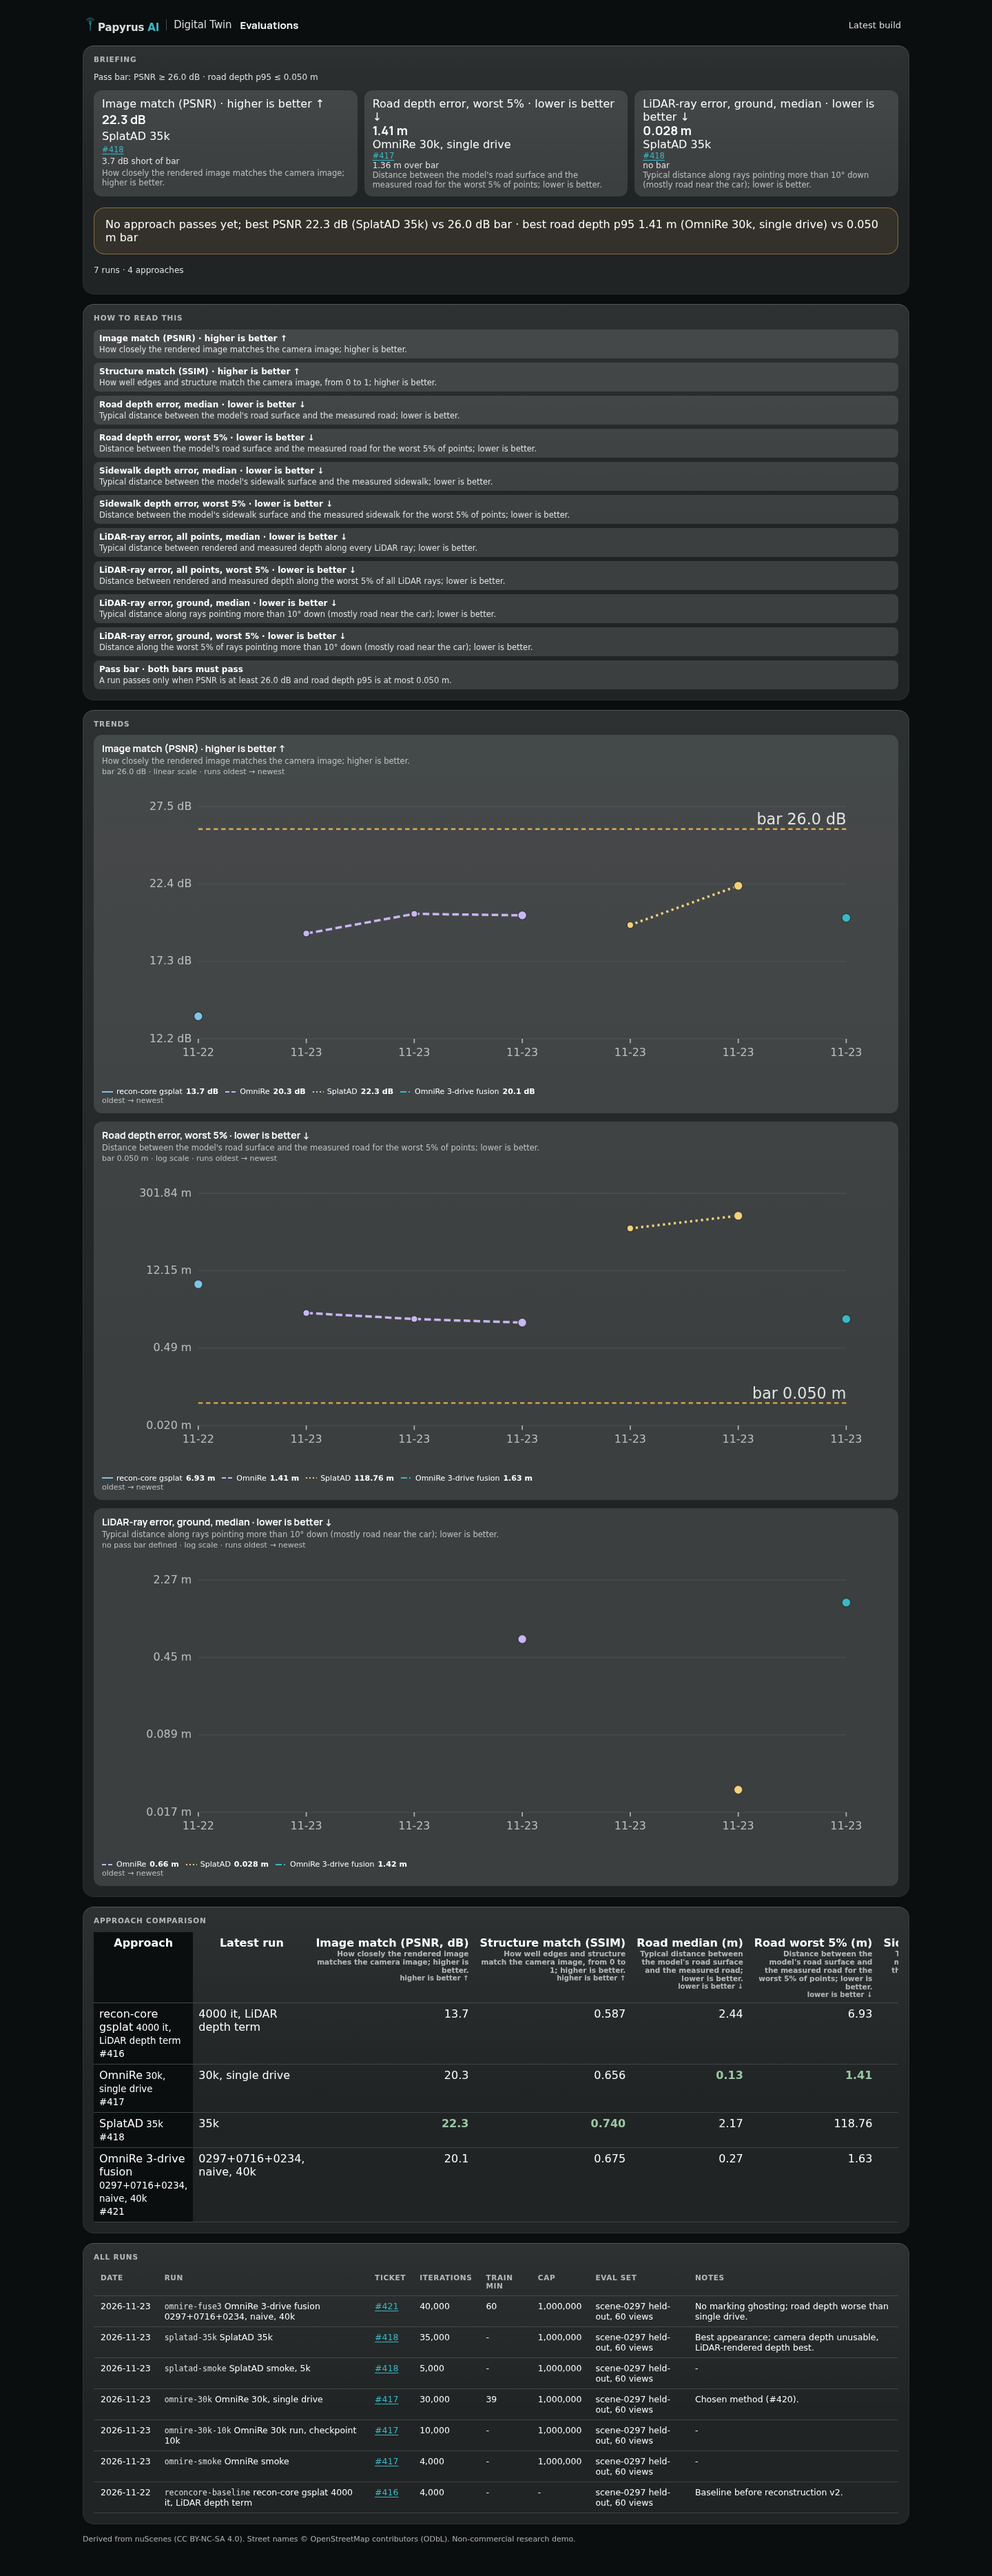
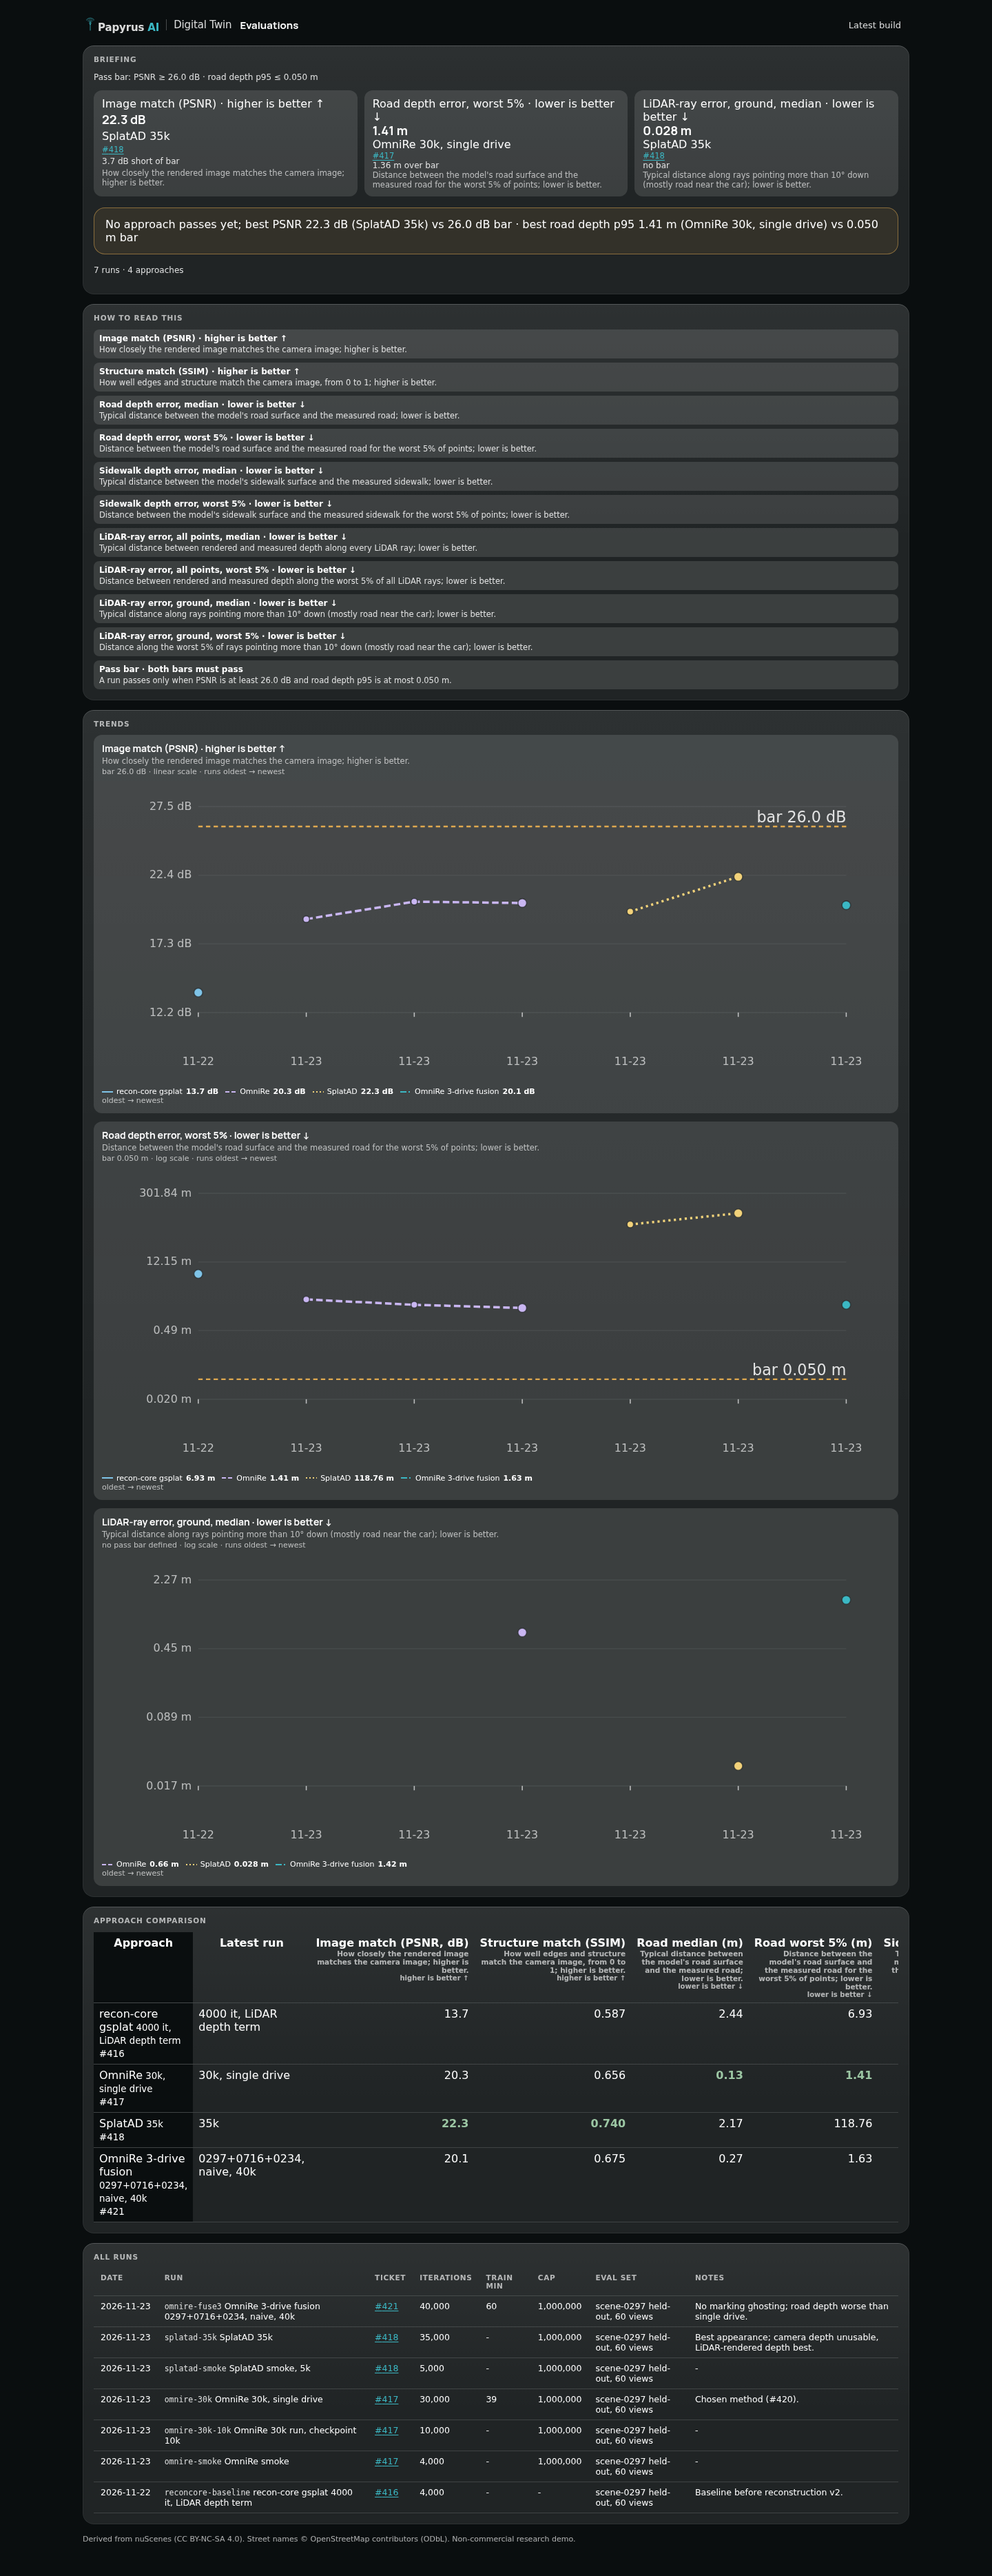
docs(evidence): refresh evaluations screenshots after axis fix

Changed region(s): [[0.75, 0.5277, 0.8438, 0.5587], [0.7812, 0.3104, 0.8125, 0.3415]]

diff --git a/docs/evidence/443/README.md b/docs/evidence/443/README.md
@@ -5,8 +5,8 @@
 - Capture: `LD_LIBRARY_PATH=/tmp/evals-443/root/usr/lib/x86_64-linux-gnu:/tmp/evals-443/root/lib/x86_64-linux-gnu:/tmp/evals-443/root/usr/lib:/tmp/evals-443/root/lib HOME=/tmp/evals-443/home CHROME_BIN=/home/oc/.cache/ms-playwright/chromium-1248/chrome-linux64/chrome node web/scripts/shoot-evals.mjs`
 - Viewports: desktop 1440x900, phone 390x844; deviceScaleFactor 1
 - Browser: chromium /home/oc/.cache/ms-playwright/chromium-1248/chrome-linux64/chrome
-- Desktop: desktop.png sha256=03cd8ed5f7334a4dda19aa3397fb6975b235f88c4fe13fd5969b616114259403
-- Phone: phone.png sha256=fa5835cbbf7b58f685a53142273aee98ca16c008e821089c8d9717bef8aeec82
+- Desktop: desktop.png sha256=2af2bea0696f1f954cffc9724f48c5a3c9b24b1c4cd90573563aeaab0a958a5f
+- Phone: phone.png sha256=4873b08922b43b5cb09681fe05c90308dddb44256bf60c33fb6c02c5c8a3705e
 - Content: desktop.png and phone.png are full-page captures after overriding the page root
   (`#eval-page`; `.page` is CSS-module-hashed) and `html,body`: plain-language cards/glossary
   ("How to read this"), briefing header (pass bar, best run per headline metric, verdict),
